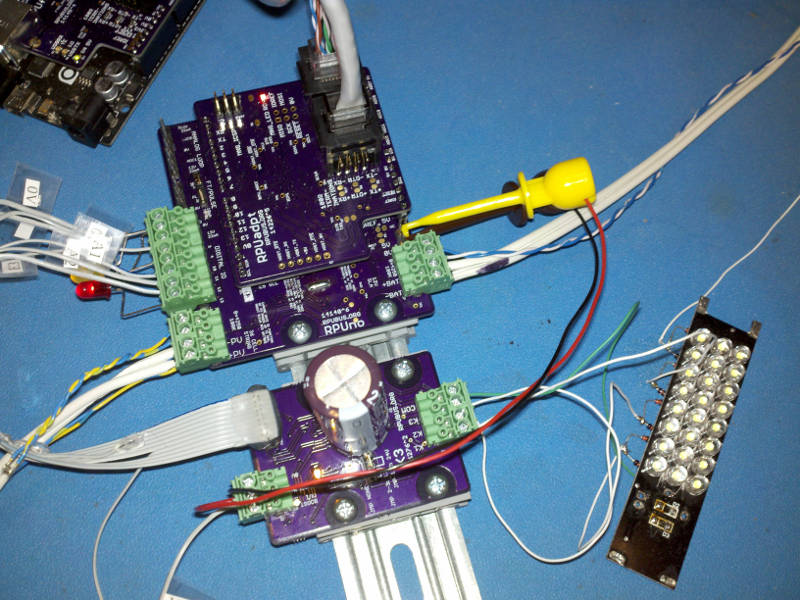
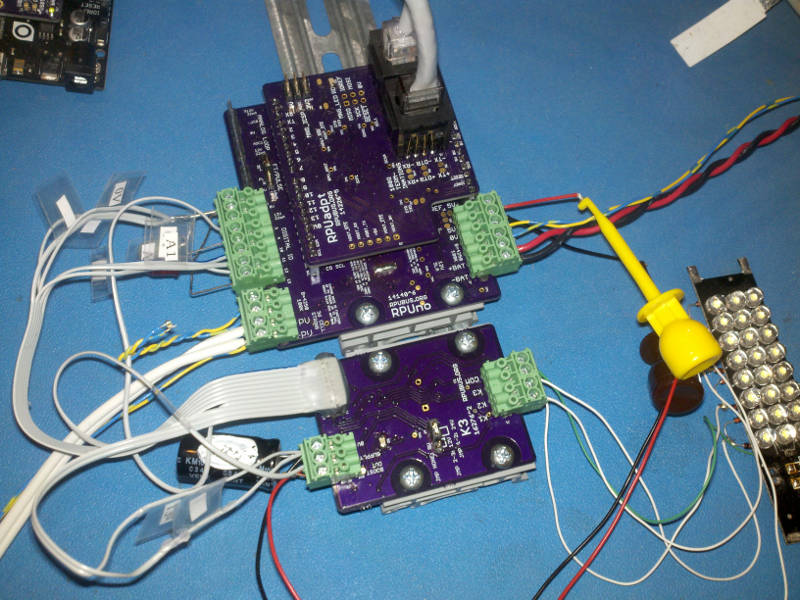
K3: first parts for Tindie store

diff --git a/K3/Testing/readme.md b/K3/Testing/readme.md
@@ -39,46 +39,48 @@ Check continuity between pin and pad by measuring the reverse body diode drop fr
 
 ## Bias 5V
 
-Setup a current limited supply with 5V and about 30mA limit. Connect A0 (J3 pin 1), A1 (J3 pin 3), A2 (J3 pin 5), and all 0V (J3 pin 2,4,6, J2 pin 3) to the supply return. Connect SUPPLY (J2 pin 2) and VCC (J3 pin 8) to the supply. Connect E3 (which has a pull down) to a switch that connects to supply when closed. Verify that nE1 (J3 pin 10) and nE2 (J3 pin 9) are each pulled down by 10k Ohm resistor. Measure the input current while disabled.
+Setup a current limited supply with 5V and about 30mA limit. Connect A0 (J3 pin 1), A1 (J3 pin 3), A2 (J3 pin 5), and all 0V (J3 pin 2,4,6, J2 pin 3) to the supply return. Connect SUPPLY (J2 pin 2) and VCC (J3 pin 8) to the supply. Connect E3 (J3 pin 7) to a switch that connects to supply when closed. Verify that nE1 (J3 pin 10) and nE2 (J3 pin 9) are each pulled down by 10k Ohm resistor. Measure the input current while disabled.
+
+C2 (2200uF) is not on board, it is mounted in the plugable connector between BOOST (J2 pin 1) and 0V (J2 pin 3).
 
 ``` 
  TODO:  some data from unit(s)
-{"DISABLED_mA":[0.2,0.2,] }
+{"DISABLED_mA":[0.2,0.2, 0.2,0.2,0.2,0.2,] }
 ``` 
 
 Close the switch that connects E3 to the 5V supply to turn on the current source that is used to test for a shorted bridge, wait for it to settle (about one second) and measure that the current drawn is less than 5 mA.
 
 ``` 
  TODO:  some data from unit(s)
-{"ENABLED_mA":[3.7,3.2,] }
+{"ENABLED_mA":[3.7,3.2, 3.5,3.5,3.6,3.6,] }
 ``` 
 
-Add 100 Ohm load between BOOST (C4 plus pin) and 0V (J2 pin 3). Measure the current source.
+Add 100 Ohm between BOOST (J2 pin 1) and 0V (J2 pin 3) to discharge C2, then short circuit the added resistor. Close the switch that connects E3 to the 5V supply. Measure the current source.
 
 ``` 
-{ "CURR_SOURCE_mA":[17.6,16.9,] }
+{ "CURR_SOURCE_mA":[17.6,16.9, 16.6,17.6,17.2,17.4,] }
 ``` 
 
 
 ## Charge To 9V
 
-Setup current limited supply with 5V and about 400mA limit. Connect A1, A2 (J3 pin 3, 5), and 0V (J3 pin 2,4,6; J2 pin 3) to the supply return.  Connect A0, VCC (J3 pin 1, 8) and SUPPLY (J2 pin 2) to supply. Connect E3 (which has a pull down) to a switch that is connected to supply when closed. Connect 0 Ohm short between BOOST (C4 plus pin) and 0V (J2 pin 3). Turn on the supply and Check that boot supply is off (e.g. only current source). Which shows that a shorted bridge will lock out the supply.
+Setup current limited supply with 5V and about 400mA limit. Connect A1, A2 (J3 pin 3, 5), and 0V (J3 pin 2,4,6; J2 pin 3) to the supply return.  Connect A0, VCC (J3 pin 1, 8) and SUPPLY (J2 pin 2) to supply. Connect E3 (which has a pull down) to a switch that is connected to supply when closed. Connect 0 Ohm short between BOOST (J2 pin 1) and 0V (J2 pin 3). Turn on the supply and Check that boot supply is off (e.g. only current source). Which shows that a shorted bridge will lock out the supply.
 
 ```
-{ "9VBOOSTOFF_mA":[17.6,16.9,]}
+{ "9VBOOSTOFF_mA":[17.6,16.9, 16.5,17.6,17.2,17.4,]}
 ```
 
-Open the 0 Ohm load and Check that the boost voltage is 9V.
+Open the short and Check that the boost voltage is 9V.
 
 ```
-{ "9VBOOST_V":[9.2,9.3]}
+{ "9VBOOST_V":[9.2,9.3, 9.2,9.2,9.2,9.1,]}
 ```
 
-Connect a 100 Ohm load between BOOST (C4 plus pin) and 0V (J2 pin 3). Check BOOST voltage and current draw.
+Connect a 100 Ohm load between BOOST (J2 pin 1) and 0V (J2 pin 3). Check BOOST voltage and current draw.
 
 ```
-{ "9VBOOSTLD_V":[9.16,9.4,],
-"9VBOOSTLD_mA":[215,236,]}
+{ "9VBOOSTLD_V":[9.16,9.4, 9.1,9.1,9.1,9.0],
+"9VBOOSTLD_mA":[215,236, 241,220,220,216,]}
 ```
 
 NOTE: the 17mA current source is used to test for a short, if the voltage it causes is not high enough then the PMOS (Q19) that connects the boost to SUPPLY does not enable, also the shutdown hack (Q25) does not enable. These safty features that should prevent a shorted bridge from connecting to the supply.
@@ -86,23 +88,23 @@ NOTE: the 17mA current source is used to test for a short, if the voltage it cau
 
 ## Charge To 12V
 
-Setup current limited supply with 5V and about 400mA limit. Connect A1, A2 (J3 pin 3, 5), and 0V (J3 pin 2,4,6; J2 pin 3) to the supply return.  Connect A0, VCC (J3 pin 1, 8) and SUPPLY (J2 pin 2) to supply. Connect E3 (which has a pull down) to a switch that is connected to supply when closed. Connect 0 Ohm short between BOOST (C4 plus pin) and 0V (J2 pin 3). Jumper for 12V boots (J4 pin 2 to pin 3). Turn on the supply and Check that boot supply is off.
+Setup current limited supply with 5V and about 400mA limit. Connect A1, A2 (J3 pin 3, 5), and 0V (J3 pin 2,4,6; J2 pin 3) to the supply return.  Connect A0, VCC (J3 pin 1, 8) and SUPPLY (J2 pin 2) to supply. Connect E3 (which has a pull down) to a switch that is connected to supply when closed. Connect 0 Ohm short between BOOST (J2 pin 1) and 0V (J2 pin 3). Jumper for 12V boots (J4 pin 2 to pin 3). Turn on the supply and Check that boot supply is off.
 
 ```
-{ "12VBOOSTOFF_mA":[17.6,16.9,]}
+{ "12VBOOSTOFF_mA":[17.6,16.9, 16.6,17.6,17.2,17.4,]}
 ```
 
-Open the 0 Ohm short and Check that the boost voltage is 12V. 
+Open the short and Check that the boost voltage is 12V. 
 
 ```
-{ "12VBOOST_V":[12.15,12.3,]}
+{ "12VBOOST_V":[12.15,12.3, 12.1,12.2,12.2,12.1,]}
 ```
 
-Connect a 100 Ohm load between BOOST (C4 plus pin) and 0V (J2 pin 3). Check BOOST voltage and current draw.
+Connect a 100 Ohm load between BOOST (J2 pin 1) and 0V (J2 pin 3). Check BOOST voltage and current draw.
 
 ```
-{ "12VBOOSTLD_V":[9.9,9.8,],
-"12VBOOSTLD_mA":[257,264,]}
+{ "12VBOOSTLD_V":[9.9,9.8, 10.0,10.0,10.1,10.0,],
+"12VBOOSTLD_mA":[257,264, 275,275,278,273,]}
 ```
 
 NOTE: The boost supply is in current limit with the 100 Ohm load, and shows how much the SUPPLY needs to be able to provide if a brown out is to be avoided.
@@ -110,24 +112,24 @@ NOTE: The boost supply is in current limit with the 100 Ohm load, and shows how 
 
 ## Charge To 24V
 
-Setup current limited supply with 5V and about 400mA limit. Connect A1, A2 (J3 pin 3, 5), and 0V (J3 pin 2,4,6; J2 pin 3) to the supply return.  Connect A0, VCC (J3 pin 1, 8) and SUPPLY (J2 pin 2) to supply. Connect E3 (which has a pull down) to a switch that is connected to supply when closed. Connect 0 Ohm short between BOOST (C4 plus pin) and 0V (J2 pin 3). Jumper for 24V boots (J4 pin 1 to pin 2). Turn on the supply and Check that boot supply is off.
+Setup current limited supply with 5V and about 400mA limit. Connect A1, A2 (J3 pin 3, 5), and 0V (J3 pin 2,4,6; J2 pin 3) to the supply return.  Connect A0, VCC (J3 pin 1, 8) and SUPPLY (J2 pin 2) to supply. Connect E3 (which has a pull down) to a switch that is connected to supply when closed. Connect 0 Ohm short between BOOST (J2 pin 1) and 0V (J2 pin 3). Jumper for 24V boots (J4 pin 1 to pin 2). Turn on the supply and Check that boot supply is off.
 
     
 ```
-{ "24VBOOSTOFF_mA":[17.6,16.9,]}
+{ "24VBOOSTOFF_mA":[17.6,16.9, 16.7,17.7,17.2,17.5,]}
 ```
 
-Open the 0 Ohm short and Check that the boost voltage is 24V. 
+Open the short and Check that the boost voltage is 24V. 
 
 ```
-{ "24VBOOST_V":[24.8,24.5]}
+{ "24VBOOST_V":[24.8,24.5, 24.3,24.5,24.5,24.2,]}
 ```
 
-Connect the 100 Ohm load between BOOST (C4 plus pin) and 0V (J2 pin 3). Check BOOST voltage and current draw.
+Connect the 100 Ohm load between BOOST (J2 pin 1) and 0V (J2 pin 3). Check BOOST voltage and current draw.
 
 ```
-{ "24VBOOSTLD_V":[9.9,9.8,],
-"24VBOOSTLD_mA":[257,264,]}
+{ "24VBOOSTLD_V":[9.9,9.8, 10.0,10.0,10.1,10.0,],
+"24VBOOSTLD_mA":[257,264, 275,275,278,273,]}
 ```
 
 ## K[1..3] Set and Reset

diff --git a/K3/README.md b/K3/README.md
@@ -42,12 +42,13 @@ Latching solenoids are driven with a current pulse that should last a short dura
             *during review the Design may change without changing the revision.
             Remove the parts that allow boost to connect to plug, just connect it with option to cut jumper.
             Use E3 to enable current source used to test for bridge short (save some power).
+            Ship with C2 on pluggable header though I recommend soldering it when the current pulse is much over an Amp.
             location: 2017-3-30 Bench /w RPUno^6, RPUadpt^5.
                       2017-4-17 SxSXWall Encl /w RPUno^5, RPUadpt^4, SLP003-12U, 12V battery.
 
         ^1  Done: Design, Layout, BOM, Review*, Order Boards, Assembly, Testing, Evaluation.
             location: 2016-2-5 SxSXWall Encl /w RPUno^5, RPUadpt^4, SLP003-12U, 12V battery.
-                      2016-4-17 removed, waiting in scrap bin.
+                      2016-4-17 Bench.
             
         ^0  location: 2016-12-1 SWall Encl /w RPUno^4, RPUadpt^4, SLP003-12U, 12V battery.
                       2016-2-4 removed, waiting in scrap bin.
